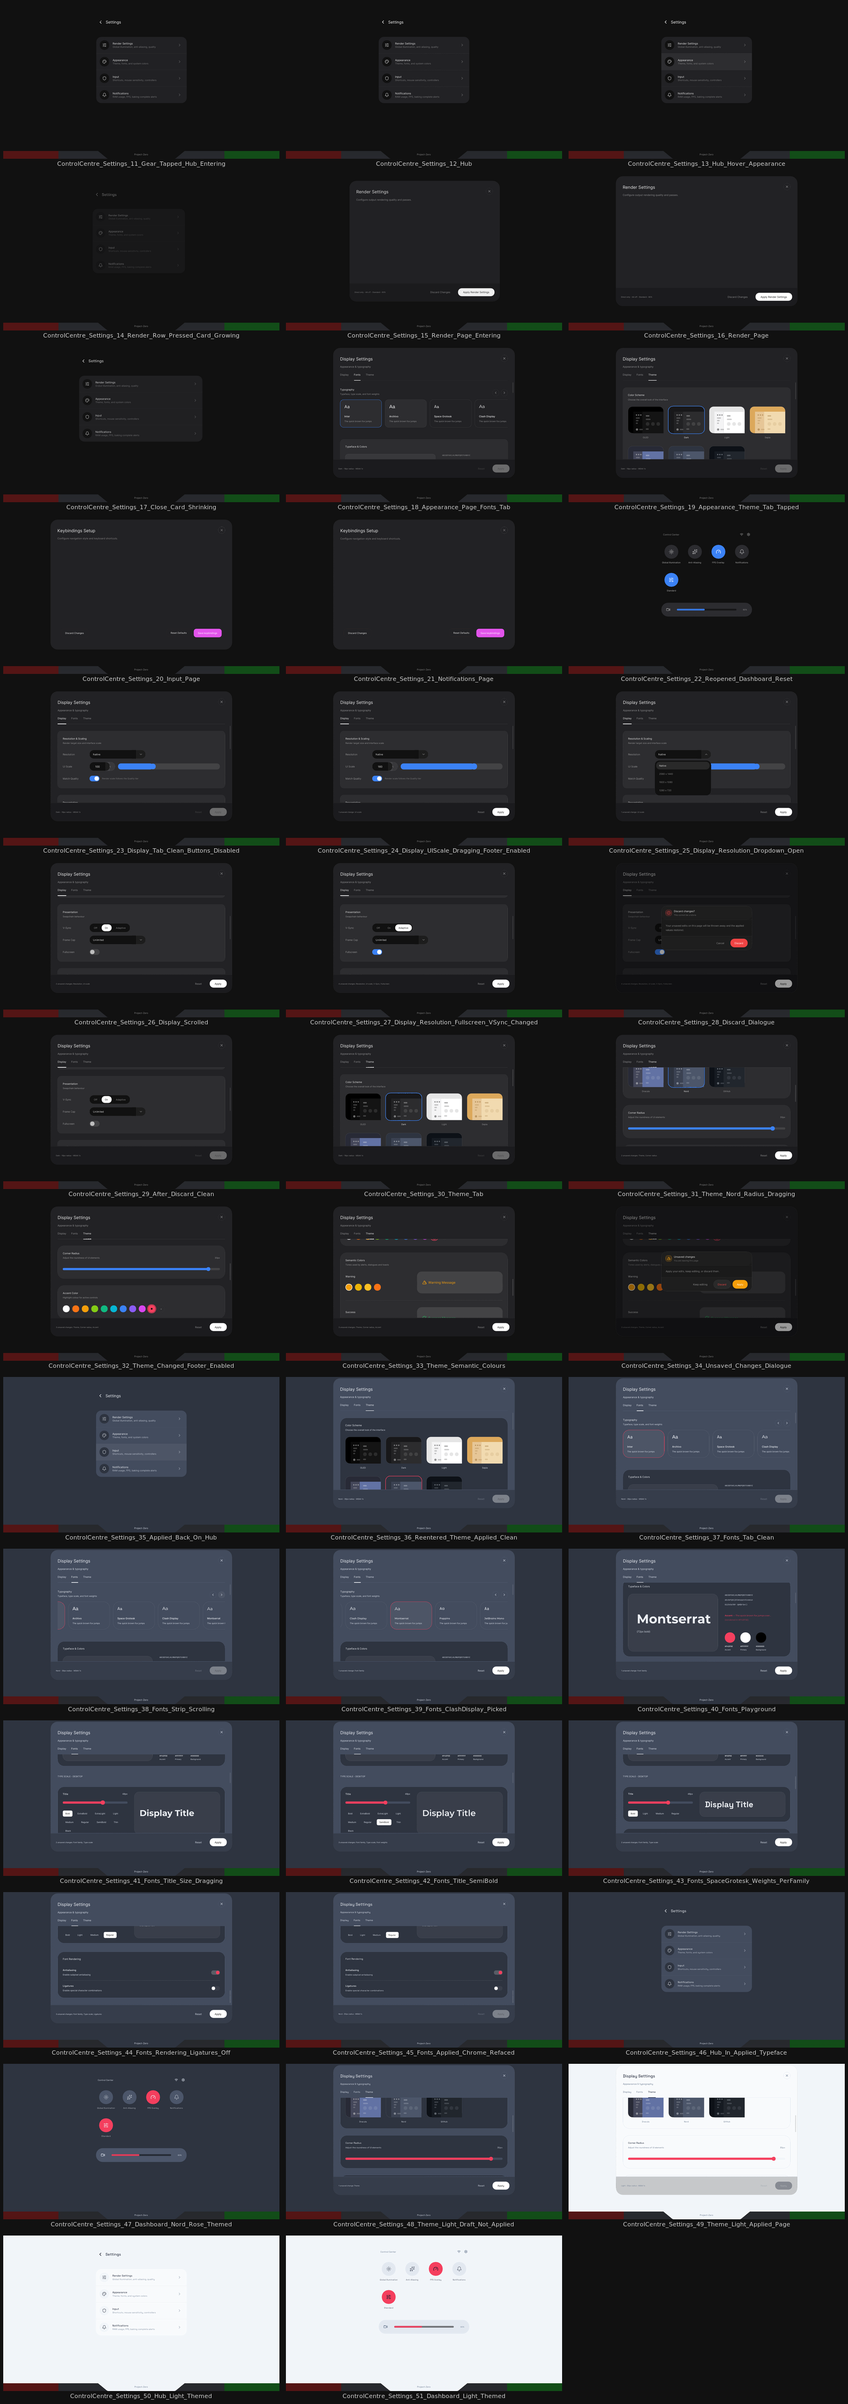
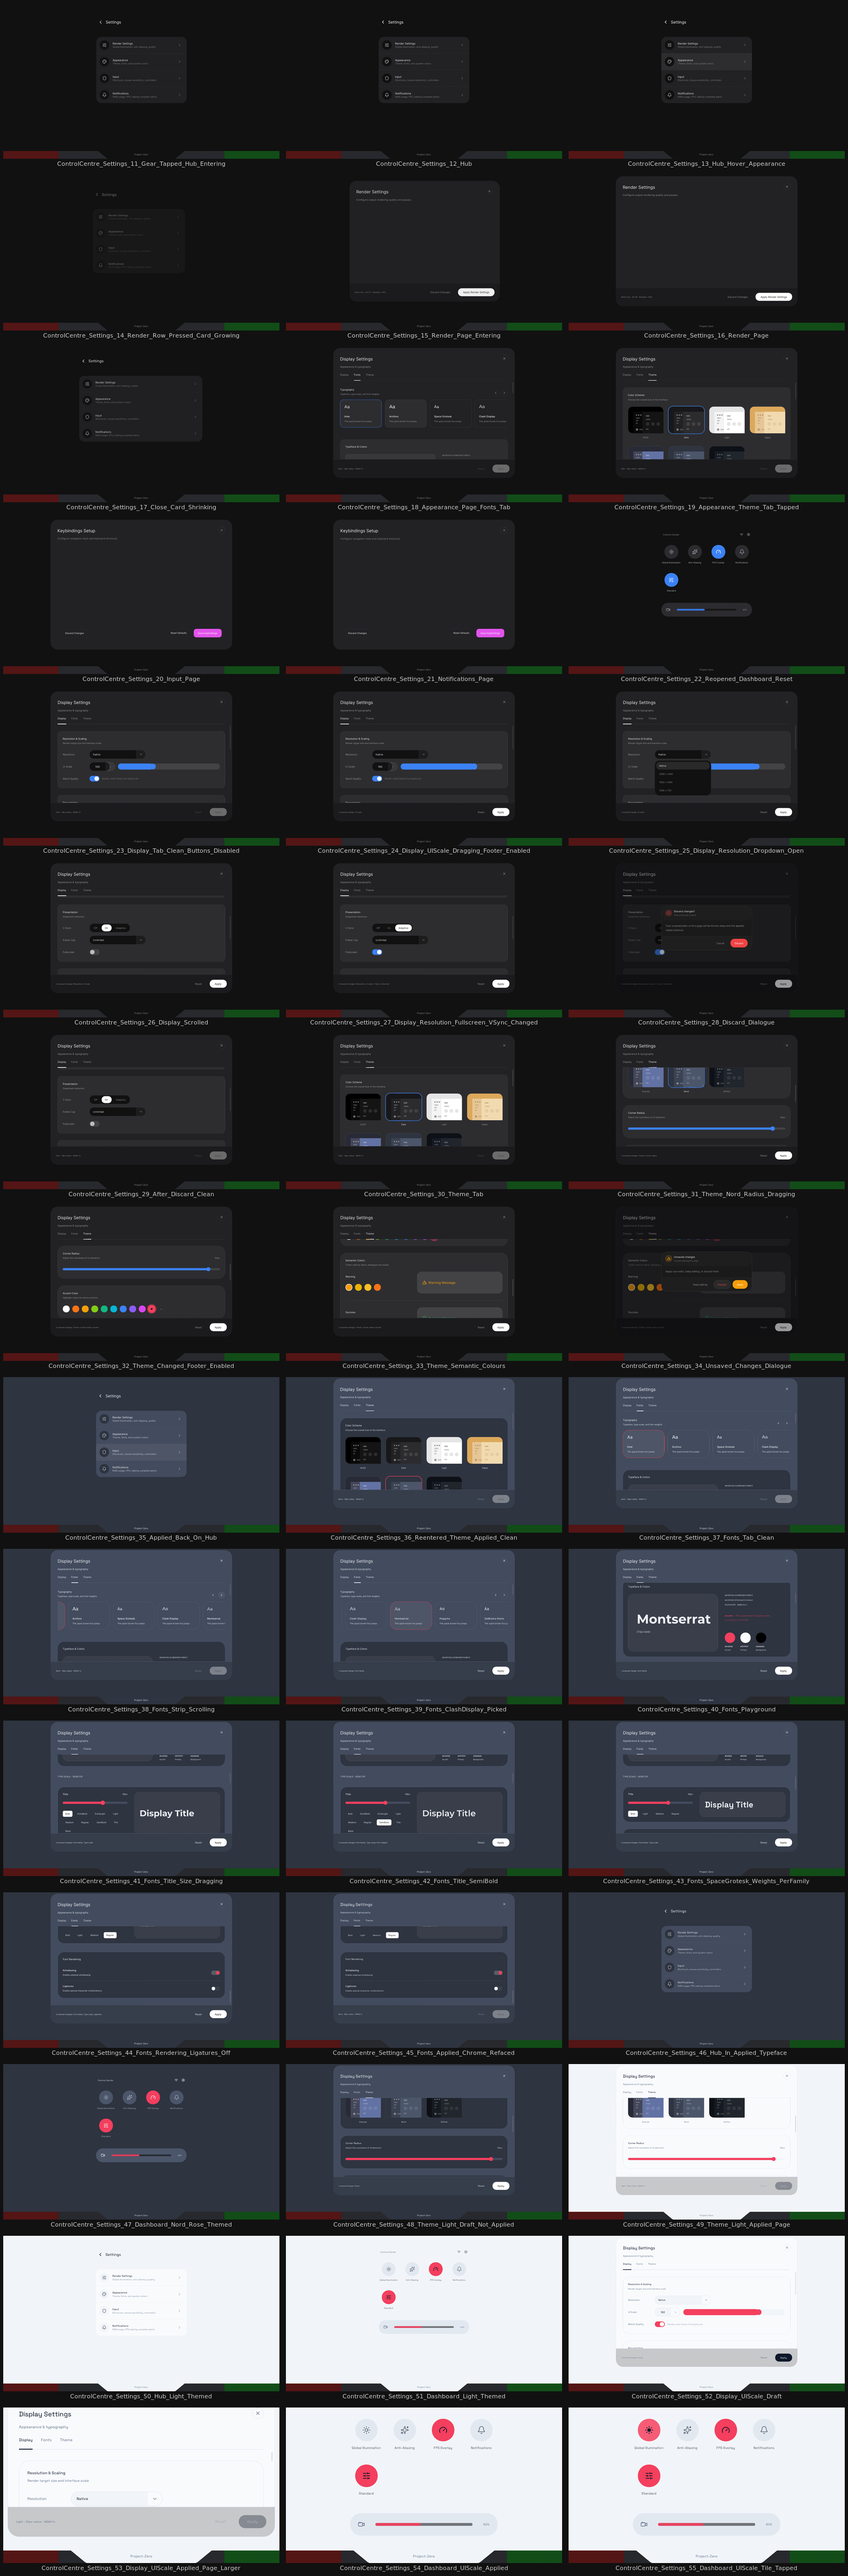
Step 5D: Interface scale — PixelSpace logical→physical mapping
- PixelSpace::Begin(layer, w, h, interfaceScale): hosts record in logical pixels (QueryDisplayWidth/Height = physical ÷ scale); rectangles, radii, polygons, stroke widths, text sizes, clip rects and group transforms are emitted ×scale; MeasureText measures at the rasterised size and divides back.
- GameExecution: logical canvas + pointer ÷ scale fed to ControlCentreHost; scale read from applied Appearance (50–200 %).
- ControlCentreHost: Resize re-clamps the card springs (Notch maxWidth semantics) so a shrunken logical canvas still fits the dashboard/page; QueryDisplayWidth/Height exposed.
- Proof: 52–55 (UI Scale drag → applied page larger → dashboard at 163 % → tile hit-test exact under the scale).

diff --git a/Engine/DisplayPresentation/PixelSpace.cpp b/Engine/DisplayPresentation/PixelSpace.cpp
@@ -37,16 +37,18 @@ ImU32 Pack(ColorQuad Colour) noexcept
 PixelSpace::PixelSpace() noexcept
     : Commands(nullptr)
     , DisplayWidth(0.0f)
+    , Scale(1.0f)
     , DisplayHeight(0.0f)
     , TypefaceStack{}
     , TypefaceDepth(0u)
 {
 }
 
-bool PixelSpace::Begin(SurfaceLayer Layer, float InDisplayWidth, float InDisplayHeight) noexcept
+bool PixelSpace::Begin(SurfaceLayer Layer, float InDisplayWidth, float InDisplayHeight, float InterfaceScale) noexcept
 {
-    DisplayWidth  = InDisplayWidth;
-    DisplayHeight = InDisplayHeight;
+    Scale         = InterfaceScale > 0.05f ? InterfaceScale : 1.0f;
+    DisplayWidth  = InDisplayWidth  / Scale;
+    DisplayHeight = InDisplayHeight / Scale;
     TypefaceDepth = 0u;
 
     if (ImGui::GetCurrentContext() == nullptr)
@@ -70,17 +72,17 @@ bool PixelSpace::Begin(SurfaceLayer Layer, float InDisplayWidth, float InDisplay
 void PixelSpace::FillRectangle(const PlaneExtent& Extent, ColorQuad Colour, float Radius) noexcept
 {
     if (!Commands) return;
-    List(Commands)->AddRectFilled(ImVec2(Extent.MinimumX, Extent.MinimumY),
-                                  ImVec2(Extent.MaximumX, Extent.MaximumY),
-                                  Pack(Colour), Radius);
+    List(Commands)->AddRectFilled(ImVec2(Extent.MinimumX * Scale, Extent.MinimumY * Scale),
+                                  ImVec2(Extent.MaximumX * Scale, Extent.MaximumY * Scale),
+                                  Pack(Colour), Radius * Scale);
 }
 
 void PixelSpace::FillRectangleBottomRounded(const PlaneExtent& Extent, ColorQuad Colour, float Radius) noexcept
 {
     if (!Commands) return;
-    List(Commands)->AddRectFilled(ImVec2(Extent.MinimumX, Extent.MinimumY),
-                                  ImVec2(Extent.MaximumX, Extent.MaximumY),
-                                  Pack(Colour), Radius, ImDrawFlags_RoundCornersBottom);
+    List(Commands)->AddRectFilled(ImVec2(Extent.MinimumX * Scale, Extent.MinimumY * Scale),
+                                  ImVec2(Extent.MaximumX * Scale, Extent.MaximumY * Scale),
+                                  Pack(Colour), Radius * Scale, ImDrawFlags_RoundCornersBottom);
 }
 
 void PixelSpace::FillPolygon(const PlanePoint* Points, uint32_t PointCount, ColorQuad Colour) noexcept
@@ -92,7 +94,7 @@ void PixelSpace::FillPolygon(const PlanePoint* Points, uint32_t PointCount, Colo
     std::vector<ImVec2> Converted;
     Converted.reserve(PointCount);
     for (uint32_t Index = 0u; Index < PointCount; ++Index)
-        Converted.emplace_back(Points[Index].X, Points[Index].Y);
+        Converted.emplace_back(Points[Index].X * Scale, Points[Index].Y * Scale);
 
 #if IMGUI_VERSION_NUM >= 19100
     List(Commands)->AddConcavePolyFilled(Converted.data(), static_cast<int>(Converted.size()), Pack(Colour));
@@ -108,10 +110,10 @@ void PixelSpace::StrokePolyline(const PlanePoint* Points, uint32_t PointCount, C
     std::vector<ImVec2> Converted;
     Converted.reserve(PointCount);
     for (uint32_t Index = 0u; Index < PointCount; ++Index)
-        Converted.emplace_back(Points[Index].X, Points[Index].Y);
+        Converted.emplace_back(Points[Index].X * Scale, Points[Index].Y * Scale);
 
     List(Commands)->AddPolyline(Converted.data(), static_cast<int>(Converted.size()), Pack(Colour),
-                                Closed ? ImDrawFlags_Closed : ImDrawFlags_None, Thickness);
+                                Closed ? ImDrawFlags_Closed : ImDrawFlags_None, Thickness * Scale);
 }
 
 void PixelSpace::Text(float X, float Y, ColorQuad Colour, const char* Utf8, float FontSizePixels) noexcept
@@ -119,7 +121,7 @@ void PixelSpace::Text(float X, float Y, ColorQuad Colour, const char* Utf8, floa
     if (!Commands || !Utf8) return;
     ImFont* Font = QueryTypeface() ? static_cast<ImFont*>(QueryTypeface()) : ImGui::GetFont();
     const float Size = FontSizePixels > 0.0f ? FontSizePixels : ImGui::GetFontSize();
-    List(Commands)->AddText(Font, Size, ImVec2(X, Y), Pack(Colour), Utf8);
+    List(Commands)->AddText(Font, Size * Scale, ImVec2(X * Scale, Y * Scale), Pack(Colour), Utf8);
 }
 
 //------------------------------------------------------------------------------------------------------------------------
@@ -129,7 +131,7 @@ void PixelSpace::Text(float X, float Y, ColorQuad Colour, const char* Utf8, floa
 void PixelSpace::PushClip(const PlaneExtent& Extent) noexcept
 {
     if (!Commands) return;
-    List(Commands)->PushClipRect(ImVec2(Extent.MinimumX, Extent.MinimumY), ImVec2(Extent.MaximumX, Extent.MaximumY), true);
+    List(Commands)->PushClipRect(ImVec2(Extent.MinimumX * Scale, Extent.MinimumY * Scale), ImVec2(Extent.MaximumX * Scale, Extent.MaximumY * Scale), true);
 }
 
 void PixelSpace::PopClip() noexcept
@@ -169,11 +171,13 @@ void PixelSpace::EndGroup(uint32_t Mark, float OffsetX, float OffsetY, float Sca
     ImDrawList* Draw = List(Commands);
     const int End = Draw->VtxBuffer.Size;
     const float A = std::clamp(Alpha, 0.0f, 1.0f);
+    // Vertices are already physical; the group parameters arrive in logical pixels.
+    const float Px = PivotX * this->Scale, Py = PivotY * this->Scale, Ox = OffsetX * this->Scale, Oy = OffsetY * this->Scale;
     for (int Index = static_cast<int>(Mark); Index < End; ++Index)
     {
         ImDrawVert& Vertex = Draw->VtxBuffer[Index];
-        Vertex.pos.x = PivotX + (Vertex.pos.x - PivotX) * Scale + OffsetX;
-        Vertex.pos.y = PivotY + (Vertex.pos.y - PivotY) * Scale + OffsetY;
+        Vertex.pos.x = Px + (Vertex.pos.x - Px) * Scale + Ox;
+        Vertex.pos.y = Py + (Vertex.pos.y - Py) * Scale + Oy;
         if (A < 1.0f)
         {
             const ImU32 Colour = Vertex.col;
@@ -192,8 +196,8 @@ PlanePoint PixelSpace::MeasureText(const char* Utf8, float FontSizePixels) const
     if (ImGui::GetCurrentContext() == nullptr || !Utf8) return {};
     ImFont* Font = QueryTypeface() ? static_cast<ImFont*>(QueryTypeface()) : ImGui::GetFont();
     const float Size = FontSizePixels > 0.0f ? FontSizePixels : ImGui::GetFontSize();
-    const ImVec2 Measured = Font->CalcTextSizeA(Size, FLT_MAX, 0.0f, Utf8);
-    return PlanePoint{ Measured.x, Measured.y };
+    const ImVec2 Measured = Font->CalcTextSizeA(Size * Scale, FLT_MAX, 0.0f, Utf8);
+    return PlanePoint{ Measured.x / Scale, Measured.y / Scale };
 }
 
 } // namespace Frontier

diff --git a/Scratchpad/GenerateControlCentreProof.cpp b/Scratchpad/GenerateControlCentreProof.cpp
@@ -190,7 +190,11 @@ struct Rig
     // One simulated frame: interaction → locomotion → record → (optionally) rasterise.
     void Frame(Canvas* Out)
     {
-        Input.AssignCursorPosition(CursorX, CursorY);
+        // Mirror GameExecution's Interface-scale mapping: the host runs in logical pixels; the script drives the cursor
+        //    in logical pixels too (extents it queries are logical), so only the surface size is divided here.
+        const float Scale = std::clamp(Host.QueryAppearance().QueryApplied().InterfaceScale / 100.0f, 0.5f, 2.0f);
+        Host.Resize(static_cast<uint32_t>(Width / Scale + 0.5f), static_cast<uint32_t>(Height / Scale + 0.5f));
+        Input.AssignCursorPosition(CursorX * Scale, CursorY * Scale);
         Input.ResetMouseScroll();
         if (PendingWheel != 0.0f) { Input.AssignMouseScroll(PendingWheel); PendingWheel = 0.0f; }
         Host.AdvanceInteraction(Input, CursorX, CursorY);
@@ -215,7 +219,7 @@ struct Rig
         IO.DeltaTime   = Step;
         IO.DisplaySize = ImVec2(Width, Height);
         ImGui::NewFrame();
-        if (Surface.Begin(Frontier::SurfaceLayer::Above, Width, Height))
+        if (Surface.Begin(Frontier::SurfaceLayer::Above, Width, Height, Scale))
         {
             const float NotchLine = Host.QueryHandleHeight();
             if (Host.QuerySettings().FrameRateOverlay) Telemetry.ConstructTelemetryLayout(Surface, NotchLine);
@@ -705,6 +709,29 @@ int main()
     R.Snapshot("ControlCentre_Settings_50_Hub_Light_Themed");
     Tap(R.Host.QueryHubBackExtent()); R.Idle(80);
     R.Snapshot("ControlCentre_Settings_51_Dashboard_Light_Themed");
+
+    // Step 5D — Interface scale: Display tab → UI Scale slider dragged to ~125 %, applied; chrome re-lays out larger
+    //    (logical canvas shrinks, primitives are emitted ×1.25) while the pointer mapping keeps hit-testing exact.
+    Tap(R.Host.QueryHeaderGearExtent()); R.Idle(30);
+    { const Frontier::PlaneExtent Row = R.Host.QueryHubRowExtent(1u); Focus(Row); R.Idle(2); R.Press(); R.Idle(3); R.Release(); R.Idle(80); }
+    Tap(R.Host.QueryPageTabExtent(0u)); R.Idle(30);
+    {
+        const Frontier::PlaneExtent S = R.Host.QueryAppearance().QueryScaleSliderExtent();
+        R.CursorX = S.MinimumX + 9.0f + (S.Width() - 18.0f) * 0.5f; R.CursorY = (S.MinimumY + S.MaximumY) * 0.5f;
+        R.Idle(2); R.Press(); R.Drag(S.MinimumX + 9.0f + (S.Width() - 18.0f) * 0.75f, R.CursorY, 20); R.Release(); R.Idle(3);
+    }
+    std::printf("   [52] draft UI scale=%.0f%%\n", Draft().InterfaceScale);
+    R.Snapshot("ControlCentre_Settings_52_Display_UIScale_Draft");
+    Tap(R.Host.QueryPageButtonExtent(true)); R.Idle(30);
+    std::printf("   [53] applied UI scale=%.0f%% logical=%ux%u\n", R.Host.QueryAppearance().QueryApplied().InterfaceScale, R.Host.QueryDisplayWidth(), R.Host.QueryDisplayHeight());
+    R.Snapshot("ControlCentre_Settings_53_Display_UIScale_Applied_Page_Larger");
+    Tap(R.Host.QueryPageCloseExtent()); R.Idle(80);
+    Tap(R.Host.QueryHubBackExtent()); R.Idle(80);
+    R.Snapshot("ControlCentre_Settings_54_Dashboard_UIScale_Applied");
+    // Tiles still hit-test correctly under the scale: tap GI (slot 0) and confirm it toggles.
+    { const bool Before = R.Host.QuerySettings().GlobalIllumination; Tap(R.Host.QueryTileDiscExtent(0u)); R.Idle(3);
+      std::printf("   [55] GI %d -> %d under UI scale (hit-test exact)\n", Before, R.Host.QuerySettings().GlobalIllumination); }
+    R.Snapshot("ControlCentre_Settings_55_Dashboard_UIScale_Tile_Tapped");
 
     // Step 5A — persistence round trip: applied state → TOML → fresh host seeded from it (textual proof).
     {

diff --git a/Engine/DisplayPresentation/PixelSpace.h b/Engine/DisplayPresentation/PixelSpace.h
@@ -73,7 +73,11 @@ public:
 
     // Must be called once per frame after ImGui::NewFrame() and before ImGui::Render(); selects the draw list.
     //    Returns false when no ImGui context exists (e.g. headless proof generation without a backend).
-    bool Begin(SurfaceLayer Layer, float DisplayWidth, float DisplayHeight) noexcept;
+    //    InterfaceScale (Display → UI Scale, 1.0 = 100 %): hosts record in LOGICAL pixels — QueryDisplayWidth/Height
+    //    report physical ÷ scale — and every primitive is mapped to physical pixels on emission (positions, radii,
+    //    stroke widths, font sizes, clip rectangles). Pointer input must be divided by the same factor by the caller.
+    bool Begin(SurfaceLayer Layer, float DisplayWidth, float DisplayHeight, float InterfaceScale = 1.0f) noexcept;
+    [[nodiscard]] float QueryInterfaceScale() const noexcept { return Scale; }
 
     // ── Primitives ───────────────────────────────────────────────────────────────────────────────────────────────────
     void FillRectangle (const PlaneExtent& Extent, ColorQuad Colour, float Radius = 0.0f) noexcept;
@@ -108,8 +112,9 @@ public:
 
 private:
     void*   Commands;        // [-]  the backend draw list for the current frame (opaque above this seam)
-    float   DisplayWidth;    // [px]
-    float   DisplayHeight;   // [px]
+    float   DisplayWidth;    // [px] logical
+    float   DisplayHeight;   // [px] logical
+    float   Scale;           // [-]  logical → physical multiplier
     void*   TypefaceStack[8];
     uint32_t TypefaceDepth;
 };

diff --git a/Engine/DisplayPresentation/ControlCentreHost.cpp b/Engine/DisplayPresentation/ControlCentreHost.cpp
@@ -126,6 +126,7 @@ void ControlCentreHost::Resize(uint32_t DesiredWidth, uint32_t DesiredHeight) no
 
     // Keep an open shade open at the new height and the notch inside the new admissible travel.
     if (WasOpen) Motion.Spring(ShadeChannel).Place(OpenTravel());
+    if (InitializedCondition) ResizeCardForPage();   // card max-size follows the (logical) canvas
     SpringChannel& Notch = Motion.Spring(NotchChannel);
     const double Admissible = NotchAdmissible();
     Notch.Place(std::clamp(Notch.Current, -Admissible, Admissible));
@@ -190,9 +191,13 @@ void ControlCentreHost::ResolveDialogueVerdict() noexcept
 void ControlCentreHost::ResizeCardForPage() noexcept
 {
     // ArcNotch.tsx: animate={{ maxWidth: activeSetting ? 840 : 420, height: activeSetting ? 600 : 480 }}
+    //    maxWidth is a max — the card shrinks with the container (relevant once the UI scale shrinks the logical canvas);
+    //    height is clamped to the visible content box (viewport − notch 35 px − 24 px breathing room) the same way.
     const bool Sub = IsSubPage(ActivePage);
-    Motion.Spring(CardWidthChannel ).Depart(Sub ? PageCardWidth  : CardWidth);
-    Motion.Spring(CardHeightChannel).Depart(Sub ? PageCardHeight : CardHeight);
+    const float MaxW = static_cast<float>(DisplayWidth)  - 32.0f;
+    const float MaxH = static_cast<float>(DisplayHeight) - 35.0f - 24.0f;
+    Motion.Spring(CardWidthChannel ).Depart(std::min(Sub ? PageCardWidth  : CardWidth,  MaxW));
+    Motion.Spring(CardHeightChannel).Depart(std::min(Sub ? PageCardHeight : CardHeight, MaxH));
 }
 
 void ControlCentreHost::NavigateBack() noexcept

diff --git a/Engine/DisplayPresentation/ControlCentreHost.h b/Engine/DisplayPresentation/ControlCentreHost.h
@@ -275,6 +275,8 @@ public:
     [[nodiscard]] ThemeCategory      QueryThemeCategory() const noexcept { return ActiveTheme.QueryActiveTheme(); }
     [[nodiscard]] float              QueryCornerRadius()  const noexcept { return ActiveTheme.QueryCornerRadius(); }
     [[nodiscard]] FontFamilyCategory QueryFontFamily()    const noexcept { return ActiveTheme.QueryActiveFontFamily(); }
+    [[nodiscard]] uint32_t  QueryDisplayWidth()  const noexcept { return DisplayWidth; }    // logical pixels (post UI scale)
+    [[nodiscard]] uint32_t  QueryDisplayHeight() const noexcept { return DisplayHeight; }
     [[nodiscard]] const ThemeStructure& QueryTheme() const noexcept { return ActiveTheme; }
     ThemeStructure&         AccessTheme() noexcept { return ActiveTheme; }
 
